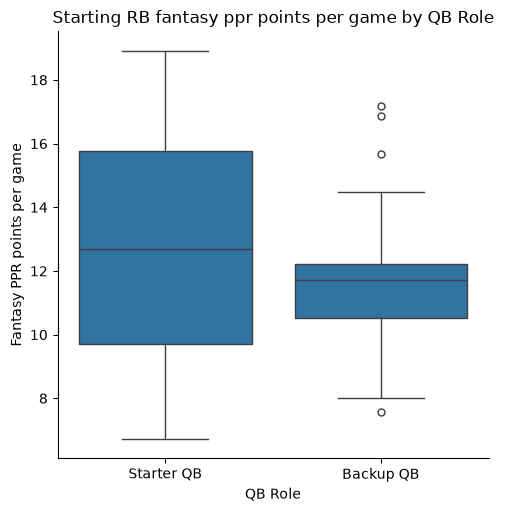
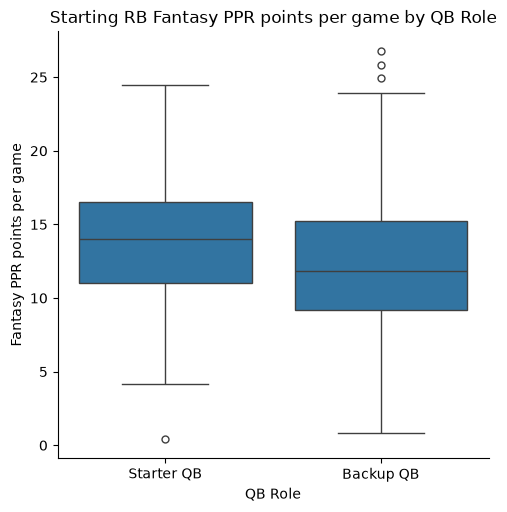
changed from 4 to all 32 teams, flake8 and CSE163 style matching

diff --git a/analysis.py b/analysis.py
@@ -3,6 +3,12 @@ Mateo Villalobos
 
 CSE 163
 
+File that analyzes how a backup quarterback affects his team's starting
+running back. Combines dataframe schedule and weekly player stats for the
+2021-2025 regular season. Labels each team's QB as either the week 1 starter
+or the season backup. Compares RB rushing efficiency, workload, and fantasy
+output through run defense metrics and general comparisons.
+
 """
 import pandas as pd
 from scipy import stats  # Used to run t-tests for research questions
@@ -16,7 +22,7 @@ RB_COLUMNS = ['player_id', 'season', 'week', 'team', 'opponent_team',
               'fantasy_points_ppr']
 
 
-def read_csv_file(file_path):
+def read_csv_file(file_path: str) -> pd.DataFrame:
     """
     Reads a CSV file and returns a pandas dataframe.
     """
@@ -28,7 +34,12 @@ def read_csv_file(file_path):
     return pd.read_csv(file_path)
 
 
-def load_weekly_stats():
+def load_weekly_stats() -> pd.DataFrame:
+    """
+    Reads the weekly player stats files and combines them into one dataframe.
+    Returns a dataframe with only the regular season games and the 2021-2025
+    season range.
+    """
     seasons = []
 
     for season in range(5):
@@ -41,7 +52,13 @@ def load_weekly_stats():
     return mask[mask['week'] <= 18]
 
 
-def get_starting_qbs(df, teams):
+def get_starting_qbs(df: pd.DataFrame,
+                     teams: list[str]) -> dict[str, dict[int, str]]:
+    """
+    Takes a schedules dataframe and a list of teams and returns a dictionary
+    mapping each team to another dictionary of each season to the name of the
+    QB who started that team's week 1 game.
+    """
     starting_qbs = {}
 
     for team in teams:
@@ -59,7 +76,13 @@ def get_starting_qbs(df, teams):
     return starting_qbs
 
 
-def get_qb_games(df, teams, starting_qbs):
+def get_qb_games(df: pd.DataFrame, teams: list[str],
+                 starting_qbs: dict[str, dict[int, str]]) -> pd.DataFrame:
+    """
+    Takes a schedules dataframe, a list of teams and a dictionary of week 1
+    starters and returns a dataframe that lists the QB games and whether they
+    were the week 1 starter or not (starter/backup definition).
+    """
     qb_games = []
     filtered_df = df[['season', 'week', 'home_team', 'away_team',
                       'home_qb_name', 'away_qb_name']]
@@ -89,7 +112,12 @@ def get_qb_games(df, teams, starting_qbs):
     return pd.DataFrame(qb_games)
 
 
-def get_starter_rbs(rb_weekly_stats, teams):
+def get_starter_rbs(rb_weekly_stats: pd.DataFrame,
+                    teams: list[str]) -> pd.DataFrame:
+    """
+    Takes weekly stats for RBs and a list of teams and returns a dataframe
+    with each team's RB with the most carries per season.
+    """
     starting_rbs = []
 
     for season in range(5):
@@ -98,8 +126,8 @@ def get_starter_rbs(rb_weekly_stats, teams):
             rb_games = rb_weekly_stats[(rb_weekly_stats['season'] == year) &
                                        (rb_weekly_stats['team'] == team)]
             player_groups = rb_games.groupby(['player_id',
-                                              'player_display_name'],
-                                              as_index=False)
+                                             'player_display_name'],
+                                             as_index=False)
             total_carries = player_groups['carries'].sum()
             top_row = total_carries['carries'].idxmax()
             starting_rbs.append({
@@ -112,14 +140,27 @@ def get_starter_rbs(rb_weekly_stats, teams):
     return pd.DataFrame(starting_rbs)
 
 
-def get_starter_rb_games(rb_weekly_stats, starter_rbs):
+def get_starter_rb_games(rb_weekly_stats: pd.DataFrame,
+                         starter_rbs: pd.DataFrame) -> pd.DataFrame:
+    """
+    Takes weekly stats for RBs and a dataframe of starting RBs, and returns
+    the season, team and player ID of every game a starting RB played for
+    his team that season.
+    """
     return rb_weekly_stats[RB_COLUMNS].merge(starter_rbs,
-                                       on=['season', 'team', 'player_id'])
+                                             on=['season', 'team',
+                                                 'player_id'])
 
 
-def get_combined_dataframe(df, teams):
+def get_combined_dataframe(df: pd.DataFrame,
+                           teams: list[str]) -> pd.DataFrame:
+    """
+    Takes a schedules dataframe and a list of teams, and returns a dataframe
+    with every game the starting RBs played, along with information about
+    QBs, RBs and opponent run defenses.
+    """
     weekly = load_weekly_stats()
-    rb_weekly_stats = weekly[(weekly['position'] == 'RB') & 
+    rb_weekly_stats = weekly[(weekly['position'] == 'RB') &
                              (weekly['carries'] > 0)]
 
     starter_qbs = get_starting_qbs(df, teams)
@@ -130,7 +171,7 @@ def get_combined_dataframe(df, teams):
     rushing = weekly[weekly['position'] == 'RB']
     defenses = rushing.groupby(['season', 'opponent_team'],
                                as_index=False)
-    
+
     run_defense = defenses[['rushing_epa', 'carries']].sum()
     epa_allowed = run_defense['rushing_epa']
     carries_allowed = run_defense['carries']
@@ -144,12 +185,17 @@ def get_combined_dataframe(df, teams):
     combined = combined.merge(team_totals, on=['season', 'week', 'team'],
                               suffixes=('', '_team'))
     combined = combined.merge(run_defense, on=['season', 'opponent_team'])
-    
-    # combined.to_csv('test.csv', index=False)
+
     return combined
 
 
-def research_question_one(df):
+def research_question_one(df: pd.DataFrame) -> None:
+    """
+    Compares the starting RB's average EPA per rush in starter and backup
+    QB games paired by team and season. Prints the means of both roles and
+    the paired t-test result, and graphs a scatter plot of averages with
+    the general mean marked.
+    """
     df['epa_per_rush'] = df['rushing_epa'] / df['carries']
     starters = df[(~df['backup_qb']) & (df['carries'] >= 6)]
     backups = df[(df['backup_qb']) & (df['carries'] >= 6)]
@@ -157,24 +203,37 @@ def research_question_one(df):
                                    as_index=False)['epa_per_rush'].mean()
     backup_epa = backups.groupby(['team', 'season'],
                                  as_index=False)['epa_per_rush'].mean()
-    
+
     paired = starter_epa.merge(backup_epa, on=['team', 'season'],
-                            suffixes=('_starter', '_backup'))
+                               suffixes=('_starter', '_backup'))
     ttest_result = stats.ttest_rel(paired['epa_per_rush_starter'],
-                             paired['epa_per_rush_backup'])
+                                   paired['epa_per_rush_backup'])
     starter_epa_mean = paired['epa_per_rush_starter'].mean()
     backup_epa_mean = paired['epa_per_rush_backup'].mean()
-    # print(ttest_result.statistic, ttest_result.pvalue)
+
+    print('Starter mean:', starter_epa_mean)
+    print('Backup mean:', backup_epa_mean)
+    print('t =', ttest_result.statistic, 'p =', ttest_result.pvalue)
 
     sns.relplot(data=paired, x='epa_per_rush_starter',
                 y='epa_per_rush_backup', hue='team')
     plt.title('Starter QBs vs Backup QBs: RB EPA per rush')
     plt.xlabel('RB EPA per rush with starting QB')
     plt.ylabel('RB EPA per rush with backup QB')
+    # Used to mark the averages of RB EPAs via a scatterplot annotation
+    plt.scatter(starter_epa_mean, backup_epa_mean, color='black')
+    plt.annotate('Average', (starter_epa_mean, backup_epa_mean),
+                 xytext=(-20, 8), textcoords='offset points')
     plt.savefig('rq1.png', bbox_inches='tight')
 
 
-def research_question_two(df):
+def research_question_two(df: pd.DataFrame) -> None:
+    """
+    Compares the starting RB's carries per game, team touch percentage,
+    and PPR fantasy points in starter and backup QB games, paired by
+    team and season. Prints a paired t-test result for each measure and
+    graphs a box plot of each measure by QB role.
+    """
     df['touches'] = df['carries'] + df['receptions']
     df['team_touches'] = df['carries_team'] + df['receptions_team']
     df['touch_percentage'] = df['touches'] / df['team_touches'] * 100
@@ -183,29 +242,38 @@ def research_question_two(df):
     labels = {'carries': 'Carries per game',
               'touch_percentage': 'Team touch percentage',
               'fantasy_points_ppr': 'Fantasy PPR points per game'}
-    
+
     groups = df.groupby(['team', 'season', 'backup_qb'],
                         as_index=False)[metrics].mean()
     starter_avgs = groups[~groups['backup_qb']]
     backup_avgs = groups[groups['backup_qb']]
     paired = starter_avgs.merge(backup_avgs, on=['team', 'season'],
-                                 suffixes=('_starter', '_backup'))
+                                suffixes=('_starter', '_backup'))
     groups['qb_role'] = 'Starter QB'
     groups.loc[groups['backup_qb'], 'qb_role'] = 'Backup QB'
 
     for metric in metrics:
         ttest_result = stats.ttest_rel(paired[metric + '_starter'],
                                        paired[metric + '_backup'])
-        print(labels[metric], ttest_result.statistic, ttest_result.pvalue)
+
+        print(labels[metric], 't =', ttest_result.statistic,
+              'p =', ttest_result.pvalue)
 
         sns.catplot(data=groups, x='qb_role', y=metric, kind='box')
-        plt.title(f'Starting RB {labels[metric].lower()} by QB Role')
+        plt.title(f'Starting RB {labels[metric]} by QB Role')
         plt.xlabel('QB Role')
         plt.ylabel(labels[metric])
         plt.savefig(f'rq2_{metric}.png', bbox_inches='tight')
 
 
-def research_question_three(df):
+def research_question_three(df: pd.DataFrame) -> None:
+    """
+    Compares the starting RB's raw and opponent-adjusted EPA per rush
+    in starter and backup QB games, and whether the two faced differently-
+    strengthed run defenses using paired t-tests. Graphs a scatterplot of
+    EPA per rush against opponent run defenses with a best-fit line for
+    each QB role.
+    """
     df['epa_per_rush'] = df['rushing_epa'] / df['carries']
     df['adjusted_epa'] = df['epa_per_rush'] - df['opp_epa_allowed']
     min_carries = df[df['carries'] >= 6].copy()
@@ -214,20 +282,21 @@ def research_question_three(df):
     labels = {'epa_per_rush': 'Raw EPA per rush',
               'adjusted_epa': 'Opponent-adjusted EPA per rush',
               'opp_epa_allowed': 'Opponent EPA allowed per rush'}
-    
+
     groups = min_carries.groupby(['team', 'season', 'backup_qb'],
                                  as_index=False)[metrics].mean()
     starter_avgs = groups[~groups['backup_qb']]
     backup_avgs = groups[groups['backup_qb']]
     paired = starter_avgs.merge(backup_avgs, on=['team', 'season'],
                                 suffixes=('_starter', '_backup'))
-    
+
     for metric in metrics:
         ttest_result = stats.ttest_rel(paired[metric + '_starter'],
                                        paired[metric + '_backup'])
-        print(labels[metric], '-', ttest_result.statistic, 
-              ttest_result.pvalue)
-    
+
+        print(labels[metric], 't =', ttest_result.statistic,
+              'p =', ttest_result.pvalue)
+
     min_carries['qb_role'] = 'Starter QB'
     min_carries.loc[min_carries['backup_qb'], 'qb_role'] = 'Backup QB'
 
@@ -239,13 +308,22 @@ def research_question_three(df):
     plt.savefig('rq3.png', bbox_inches='tight')
 
 
-df = read_csv_file('data/games.csv')
-teams = ['CLE', 'NYG', 'NYJ', 'WAS']
-# teams = ['ARI', 'ATL', 'BAL', 'BUF', 'CAR', 'CHI', 'CIN', 'CLE',
-#          'DAL', 'DEN', 'DET', 'GB', 'HOU', 'IND', 'JAX', 'KC', 
-#          'LV', 'LAC', 'LA', 'MIA', 'MIN', 'NE', 'NO', 'NYG', 
-#          'NYJ', 'PHI', 'PIT', 'SF', 'SEA', 'TB', 'TEN', 'WAS']
-combined_df = get_combined_dataframe(df, teams)
-research_question_one(combined_df)
-research_question_two(combined_df)
-research_question_three(combined_df)
+def main():
+    df = read_csv_file('data/games.csv')
+    teams = ['ARI', 'ATL', 'BAL', 'BUF', 'CAR', 'CHI', 'CIN', 'CLE',
+             'DAL', 'DEN', 'DET', 'GB', 'HOU', 'IND', 'JAX', 'KC',
+             'LV', 'LAC', 'LA', 'MIA', 'MIN', 'NE', 'NO', 'NYG',
+             'NYJ', 'PHI', 'PIT', 'SF', 'SEA', 'TB', 'TEN', 'WAS']
+    combined_df = get_combined_dataframe(df, teams)
+    print("Research question 1:")
+    research_question_one(combined_df)
+    print()
+    print("Research question 2:")
+    research_question_two(combined_df)
+    print()
+    print("Research question 3:")
+    research_question_three(combined_df)
+
+
+if __name__ == '__main__':
+    main()
